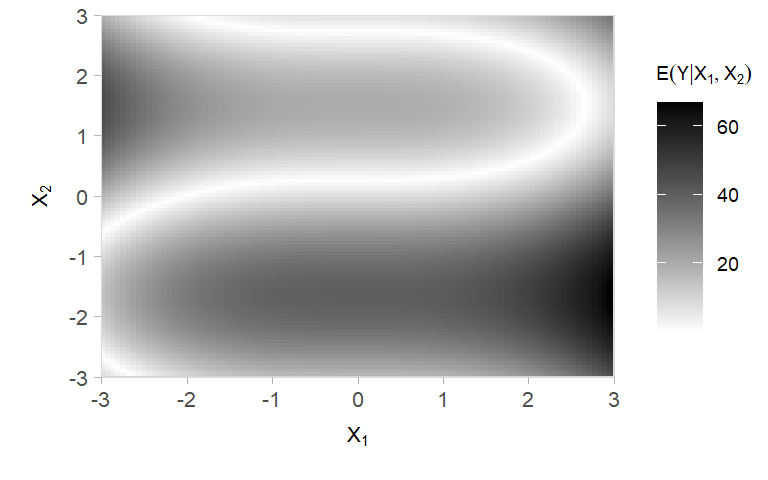
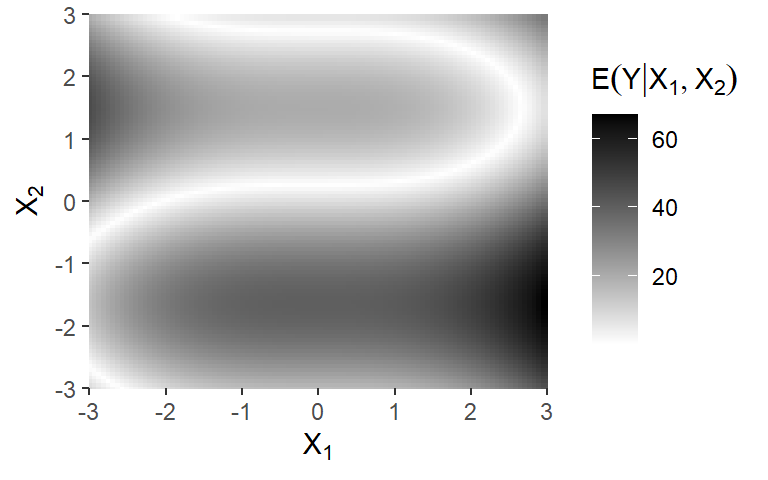
Built site for gh-pages

diff --git a/Academic production/index.html b/Academic production/index.html
@@ -451,7 +451,20 @@ Bruno Gondim Toledo, Thais Carvalho Valadares Rodrigues
 </thead>
 <tbody class="list">
 
-<tr data-index="0" data-listing-date-sort="1772730249000" data-listing-file-modified-sort="1772730249494" data-listing-date-modified-sort="NaN" data-listing-reading-time-sort="7" data-listing-word-count-sort="1250" data-listing-title-sort="XGBoost/Catboost" data-listing-filename-sort="trabalho.qmd">
+<tr data-index="0" data-listing-date-sort="1772731650000" data-listing-file-modified-sort="1772731650032" data-listing-date-modified-sort="NaN" data-listing-reading-time-sort="19" data-listing-word-count-sort="3699" data-listing-title-sort="Avaliando a rede neural" data-listing-filename-sort="lista3.qmd">
+<td>
+<span class="listing-date">Mar 5, 2026</span>
+</td>
+<td>
+<a href="../Academic production/Assignments/lista3rna1/lista3.html" class="title listing-title">Avaliando a rede neural</a>
+</td>
+<td>
+<span class="listing-author">Bruno Gondim Toledo</span>
+</td>
+
+</tr>
+
+<tr data-index="1" data-listing-date-sort="1772730249000" data-listing-file-modified-sort="1772730249494" data-listing-date-modified-sort="NaN" data-listing-reading-time-sort="7" data-listing-word-count-sort="1250" data-listing-title-sort="XGBoost/Catboost" data-listing-filename-sort="trabalho.qmd">
 <td>
 <span class="listing-date">Mar 5, 2026</span>
 </td>
@@ -464,7 +477,7 @@ Bruno Gondim Toledo, Thais Carvalho Valadares Rodrigues
 
 </tr>
 
-<tr data-index="1" data-listing-date-sort="1772730223000" data-listing-file-modified-sort="1772730223365" data-listing-date-modified-sort="NaN" data-listing-reading-time-sort="17" data-listing-word-count-sort="3299" data-listing-title-sort="Otimização em RNA" data-listing-filename-sort="lista1.qmd">
+<tr data-index="2" data-listing-date-sort="1772730223000" data-listing-file-modified-sort="1772730223365" data-listing-date-modified-sort="NaN" data-listing-reading-time-sort="17" data-listing-word-count-sort="3299" data-listing-title-sort="Otimização em RNA" data-listing-filename-sort="lista1.qmd">
 <td>
 <span class="listing-date">Mar 5, 2026</span>
 </td>
@@ -477,7 +490,7 @@ Bruno Gondim Toledo, Thais Carvalho Valadares Rodrigues
 
 </tr>
 
-<tr data-index="2" data-listing-date-sort="1772730210000" data-listing-file-modified-sort="1772730210505" data-listing-date-modified-sort="NaN" data-listing-reading-time-sort="3" data-listing-word-count-sort="537" data-listing-title-sort="Otimização e máxima verossimilhança" data-listing-filename-sort="lista2.qmd">
+<tr data-index="3" data-listing-date-sort="1772730210000" data-listing-file-modified-sort="1772730210505" data-listing-date-modified-sort="NaN" data-listing-reading-time-sort="3" data-listing-word-count-sort="537" data-listing-title-sort="Otimização e máxima verossimilhança" data-listing-filename-sort="lista2.qmd">
 <td>
 <span class="listing-date">Mar 5, 2026</span>
 </td>
@@ -490,7 +503,7 @@ Bruno Gondim Toledo, Thais Carvalho Valadares Rodrigues
 
 </tr>
 
-<tr data-index="3" data-listing-date-sort="1772730196000" data-listing-file-modified-sort="1772730196002" data-listing-date-modified-sort="NaN" data-listing-reading-time-sort="6" data-listing-word-count-sort="1013" data-listing-title-sort="Geração de NPA's (Números Pseudo-Aleatórios)" data-listing-filename-sort="lista1.qmd">
+<tr data-index="4" data-listing-date-sort="1772730196000" data-listing-file-modified-sort="1772730196002" data-listing-date-modified-sort="NaN" data-listing-reading-time-sort="6" data-listing-word-count-sort="1013" data-listing-title-sort="Geração de NPA's (Números Pseudo-Aleatórios)" data-listing-filename-sort="lista1.qmd">
 <td>
 <span class="listing-date">Mar 5, 2026</span>
 </td>
@@ -503,7 +516,7 @@ Bruno Gondim Toledo, Thais Carvalho Valadares Rodrigues
 
 </tr>
 
-<tr data-index="4" data-listing-date-sort="1772730183000" data-listing-file-modified-sort="1772730183398" data-listing-date-modified-sort="NaN" data-listing-reading-time-sort="5" data-listing-word-count-sort="825" data-listing-title-sort="Métodos de Monte Carlo" data-listing-filename-sort="lista4.qmd">
+<tr data-index="5" data-listing-date-sort="1772730183000" data-listing-file-modified-sort="1772730183398" data-listing-date-modified-sort="NaN" data-listing-reading-time-sort="5" data-listing-word-count-sort="825" data-listing-title-sort="Métodos de Monte Carlo" data-listing-filename-sort="lista4.qmd">
 <td>
 <span class="listing-date">Mar 5, 2026</span>
 </td>
@@ -516,7 +529,7 @@ Bruno Gondim Toledo, Thais Carvalho Valadares Rodrigues
 
 </tr>
 
-<tr data-index="5" data-listing-date-sort="1772730170000" data-listing-file-modified-sort="1772730170453" data-listing-date-modified-sort="NaN" data-listing-reading-time-sort="6" data-listing-word-count-sort="1083" data-listing-title-sort="Classificação de imagens utilizando redes neurais profundas" data-listing-filename-sort="lista5.qmd">
+<tr data-index="6" data-listing-date-sort="1772730170000" data-listing-file-modified-sort="1772730170453" data-listing-date-modified-sort="NaN" data-listing-reading-time-sort="6" data-listing-word-count-sort="1083" data-listing-title-sort="Classificação de imagens utilizando redes neurais profundas" data-listing-filename-sort="lista5.qmd">
 <td>
 <span class="listing-date">Mar 5, 2026</span>
 </td>
@@ -529,25 +542,12 @@ Bruno Gondim Toledo, Thais Carvalho Valadares Rodrigues
 
 </tr>
 
-<tr data-index="6" data-listing-date-sort="1772730151000" data-listing-file-modified-sort="1772730151694" data-listing-date-modified-sort="NaN" data-listing-reading-time-sort="1" data-listing-word-count-sort="7" data-listing-title-sort="Ajustando a rede com PyTorch" data-listing-filename-sort="lista4.qmd">
+<tr data-index="7" data-listing-date-sort="1772730151000" data-listing-file-modified-sort="1772730151694" data-listing-date-modified-sort="NaN" data-listing-reading-time-sort="1" data-listing-word-count-sort="7" data-listing-title-sort="Ajustando a rede com PyTorch" data-listing-filename-sort="lista4.qmd">
 <td>
 <span class="listing-date">Mar 5, 2026</span>
 </td>
 <td>
 <a href="../Academic production/Assignments/lista4rna1/lista4.html" class="title listing-title">Ajustando a rede com PyTorch</a>
-</td>
-<td>
-<span class="listing-author">Bruno Gondim Toledo</span>
-</td>
-
-</tr>
-
-<tr data-index="7" data-listing-date-sort="1772730138000" data-listing-file-modified-sort="1772730138753" data-listing-date-modified-sort="NaN" data-listing-reading-time-sort="19" data-listing-word-count-sort="3700" data-listing-title-sort="Avaliando a rede neural" data-listing-filename-sort="lista3.qmd">
-<td>
-<span class="listing-date">Mar 5, 2026</span>
-</td>
-<td>
-<a href="../Academic production/Assignments/lista3rna1/lista3.html" class="title listing-title">Avaliando a rede neural</a>
 </td>
 <td>
 <span class="listing-author">Bruno Gondim Toledo</span>

diff --git a/Academic production/Assignments/lista3rna1/lista3.html b/Academic production/Assignments/lista3rna1/lista3.html
@@ -285,12 +285,12 @@ window.Quarto = {
 <div class="cell">
 <details class="code-fold">
 <summary>Mostrar códigos</summary>
-<div class="sourceCode cell-code" id="cb1"><pre class="sourceCode r code-with-copy"><code class="sourceCode r"><span id="cb1-1"><a href="#cb1-1" aria-hidden="true" tabindex="-1"></a>knitr<span class="sc">::</span>opts_chunk<span class="sc">$</span><span class="fu">set</span>(<span class="at">echo =</span> T, <span class="at">message=</span><span class="cn">FALSE</span>, <span class="at">warning=</span><span class="cn">FALSE</span>, <span class="at">cache=</span>T)</span>
+<div class="sourceCode cell-code" id="cb1"><pre class="sourceCode r code-with-copy"><code class="sourceCode r"><span id="cb1-1"><a href="#cb1-1" aria-hidden="true" tabindex="-1"></a>knitr<span class="sc">::</span>opts_chunk<span class="sc">$</span><span class="fu">set</span>(<span class="at">echo =</span> T, <span class="at">message=</span><span class="cn">FALSE</span>, <span class="at">warning=</span><span class="cn">FALSE</span>)</span>
 <span id="cb1-2"><a href="#cb1-2" aria-hidden="true" tabindex="-1"></a>pacman<span class="sc">::</span><span class="fu">p_load</span>(<span class="st">"neuralnet"</span>, <span class="st">"tidyverse"</span>, <span class="st">"latex2exp"</span>, <span class="st">"knitr"</span>,</span>
 <span id="cb1-3"><a href="#cb1-3" aria-hidden="true" tabindex="-1"></a>               <span class="st">"NeuralNetTools"</span>, <span class="st">"Cairo"</span>, <span class="st">"hexbin"</span>, <span class="st">"tictoc"</span>,</span>
 <span id="cb1-4"><a href="#cb1-4" aria-hidden="true" tabindex="-1"></a>               <span class="st">"microbenchmark"</span>,<span class="st">"tictoc"</span>,<span class="st">"parallel"</span>,<span class="st">"furrr"</span>)</span>
 <span id="cb1-5"><a href="#cb1-5" aria-hidden="true" tabindex="-1"></a></span>
-<span id="cb1-6"><a href="#cb1-6" aria-hidden="true" tabindex="-1"></a><span class="co"># Definindo o aspecto dos gráficos</span></span>
+<span id="cb1-6"><a href="#cb1-6" aria-hidden="true" tabindex="-1"></a><span class="co"># Definindo o aspecto dos gráficos </span></span>
 <span id="cb1-7"><a href="#cb1-7" aria-hidden="true" tabindex="-1"></a>tema.graficos <span class="ot">&lt;-</span> <span class="fu">theme_light</span>() <span class="sc">+</span> </span>
 <span id="cb1-8"><a href="#cb1-8" aria-hidden="true" tabindex="-1"></a>  <span class="fu">theme</span>(<span class="at">plot.margin =</span> <span class="fu">unit</span>(<span class="fu">rep</span>(.<span class="dv">2</span>, <span class="dv">4</span>), <span class="st">"cm"</span>),</span>
 <span id="cb1-9"><a href="#cb1-9" aria-hidden="true" tabindex="-1"></a>        <span class="at">axis.title.y =</span> <span class="fu">element_text</span>(<span class="at">margin =</span> <span class="fu">unit</span>(<span class="fu">rep</span>(.<span class="dv">2</span>, <span class="dv">4</span>), <span class="st">"cm"</span>), <span class="at">size =</span> <span class="dv">8</span>),</span>

diff --git a/Academic production/Assignments/lista2rna1/lista2.html b/Academic production/Assignments/lista2rna1/lista2.html
@@ -912,6 +912,10 @@ $Beta$beta1
 <span id="cb18-11"><a href="#cb18-11" aria-hidden="true" tabindex="-1"></a>    <span class="at">size =</span> <span class="dv">1</span>) <span class="sc">+</span></span>
 <span id="cb18-12"><a href="#cb18-12" aria-hidden="true" tabindex="-1"></a>  <span class="fu">labs</span>(<span class="at">x =</span> <span class="st">"Iteração"</span>, <span class="at">y =</span> <span class="st">"Perda"</span>)</span></code><button title="Copy to Clipboard" class="code-copy-button"><i class="bi"></i></button></pre></div>
 </details>
+<div class="cell-output cell-output-stderr">
+<pre><code>Warning: Using `size` aesthetic for lines was deprecated in ggplot2 3.4.0.
+ℹ Please use `linewidth` instead.</code></pre>
+</div>
 <div class="cell-output-display">
 <div>
 <figure class="figure">
